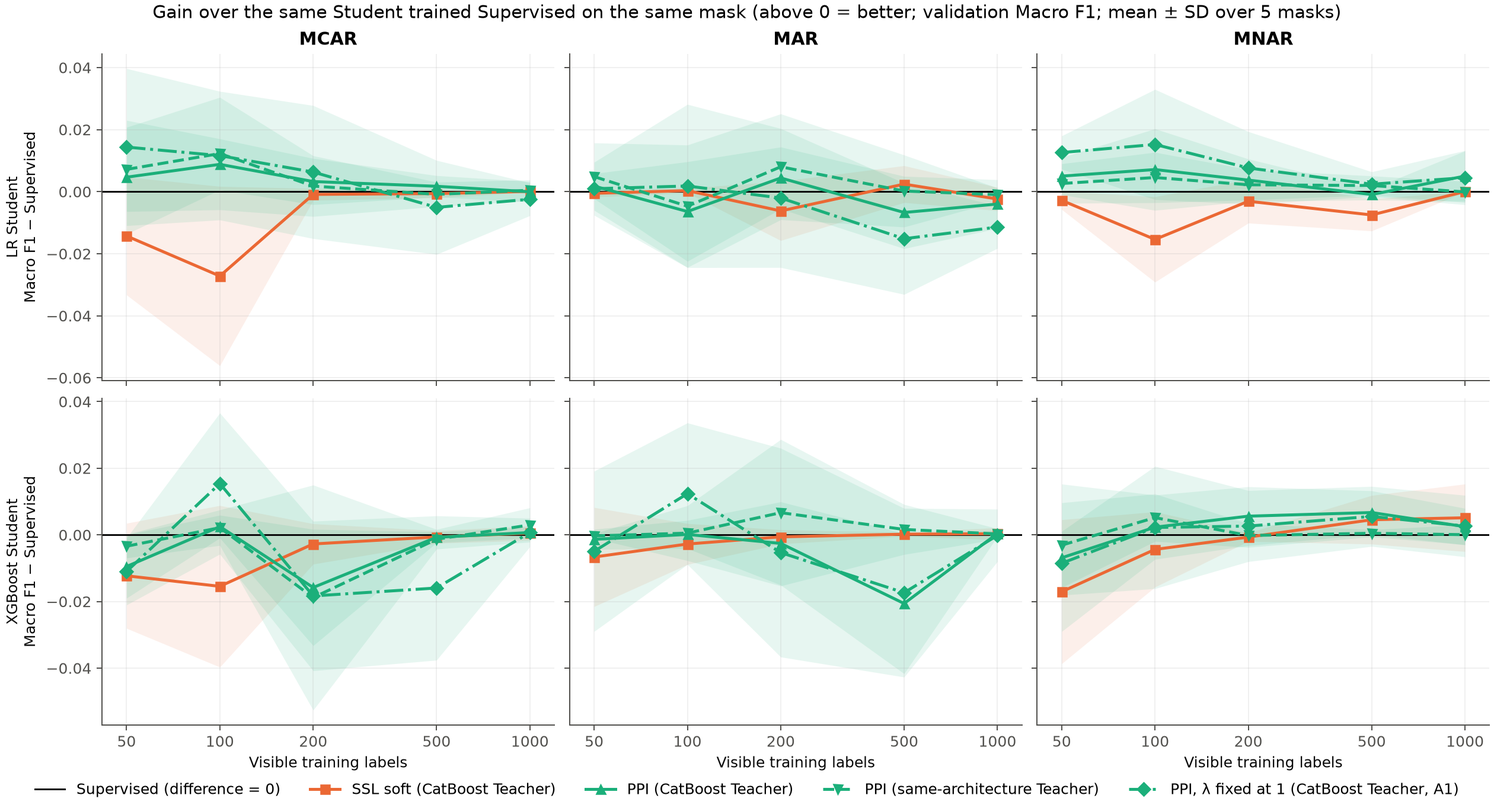
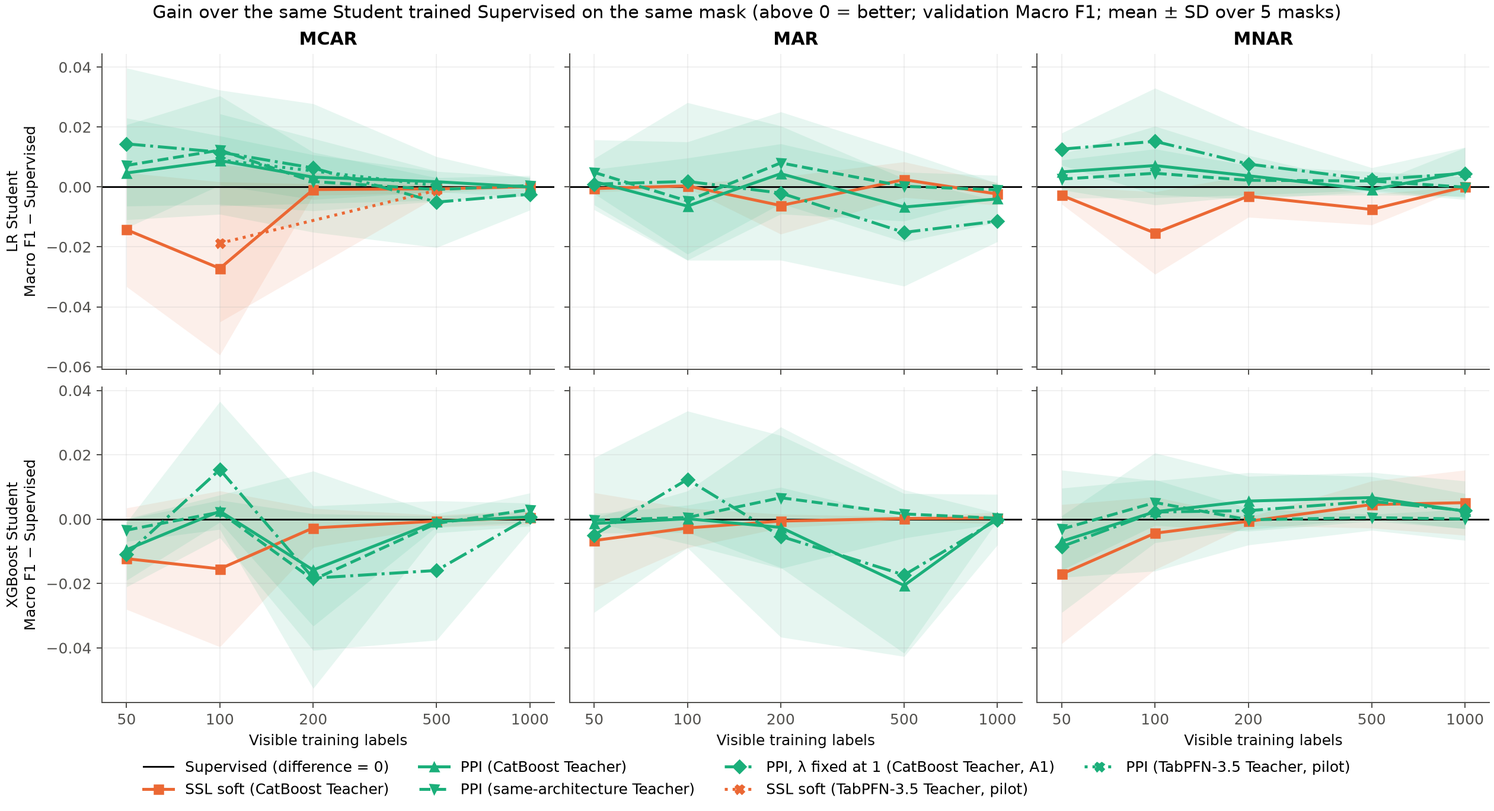
add TabPFN-3.5 pretrained teacher

diff --git a/src/core/figures.py b/src/core/figures.py
@@ -153,9 +153,10 @@ def teacher_quality(main, audits, study_audits, extra):
             band(ax, by_case(refit, mechanism), 'CatBoost Teacher refit on all visible labels', TEACHER_GRAY, 'D', '--')
             band(ax, by_case(same, mechanism), 'Same-architecture Teacher (cross-fit)', VIOLET, 'v', '-.')
             if student == 'LR' and mechanism in TABPFN_GRID['mechanisms'] and not tabpfn.empty:
-                band(ax, by_case(tabpfn, mechanism), 'TabPFN-3.5 Teacher (pretrained; cross-fit)', TEACHER_GRAY, 'X', '-')
+                # Darker gray = the pretrained Teacher (pilot: MCAR, 100 and 500 labels only).
+                band(ax, by_case(tabpfn, mechanism), 'TabPFN-3.5 Teacher (pretrained; cross-fit)', MUTED, 'X', '-')
                 band(ax, by_case(tabpfn, mechanism, 'alone'), 'TabPFN-3.5 alone (all visible labels as context)',
-                     TEACHER_GRAY, 'P', (0, (1, 1)))
+                     MUTED, 'P', ':')
     finish(fig, axes, 'Teacher quality: each Teacher vs the Student trained Supervised '
            '(validation Macro F1; mean ± SD over 5 masks)', 'teacher_quality.png')
 

diff --git a/README.md b/README.md
@@ -1,231 +1,142 @@
 # Evaluating Prediction-Powered Semi-Supervised Learning under Label Scarcity and Non-Random Label Missingness
 
-CS 680 project. It asks whether unlabeled training data improve four-class `Aircraft_Damage_Type` classification when only **50, 100, 200, 500 or 1,000 training labels** are visible. It compares Supervised learning, soft pseudo-label SSL and **PPI-inspired rectified training** under MCAR, MAR and MNAR label missingness. This is a machine-learning classification study, not statistical inference.
+CS 680 project. Does unlabeled data help four-class `Aircraft_Damage_Type` classification when only **50–1,000 training labels** are visible? It compares **Supervised**, **soft pseudo-label SSL** and **PPI-inspired rectified training** under MCAR, MAR and MNAR label missingness.
 
-## Run order
+## Run
 
-Use Python 3.13 (`python3.13 -m venv .venv && .venv/bin/python -m pip install -r requirements.txt`), then run from the project directory:
+Python 3.13: `python3.13 -m venv .venv && .venv/bin/python -m pip install -r requirements.txt`, then:
 
 ```bash
-.venv/bin/python src/01_run_main_study.py      # builds the fixed split if missing; main study: 75 cases × LR and XGBoost Students
-.venv/bin/python src/02_run_ablations.py       # A1 Teacher replay / Teacher-only / fixed λ=1, A2 rounds, A3 capacity
-.venv/bin/python src/03_run_teacher_study.py   # same-architecture Teachers, label-free preprocessing, TabPFN-3.5 Teacher pilot
-.venv/bin/python src/04_run_improvements.py    # exploratory improved pipeline (improved_v2), validation only
-.venv/bin/python src/05_run_synthetic_checks.py   # synthetic positive control + PP-SSL anchor (no real data)
-.venv/bin/python src/06_make_figures.py        # all figures and tables + key numbers printed to the console
-.venv/bin/python src/07_final_test.py          # one-shot Test evaluation, run LAST; locked until the protocol is frozen
-.venv/bin/python -m unittest discover -s tests -v
+.venv/bin/python src/01_run_main_study.py         # split (if missing) + main study: 75 cases × LR and XGBoost Students
+.venv/bin/python src/02_run_ablations.py          # A1 fixed λ=1 / Teacher replay, A2 XGBoost rounds, A3 XGBoost capacity
+.venv/bin/python src/03_run_teacher_study.py      # same-architecture Teachers, label-free preprocessing, TabPFN-3.5 Teacher pilot
+.venv/bin/python src/04_run_improvements.py       # exploratory improved_v2 pipeline
+.venv/bin/python src/05_run_synthetic_checks.py   # synthetic positive control + PP-SSL replication
+.venv/bin/python src/06_make_figures.py           # all figures and tables (reads the databases only)
+.venv/bin/python src/07_final_test.py             # one-shot Test evaluation, run last; locked as a draft
+.venv/bin/python -m unittest discover -s tests
 ```
 
-Steps 01–05 resume from (or rebuild) their own databases and do nothing if already complete. Step 06 only reads the databases and writes the figures and the LR main-line tables (no retraining). Step 07 refuses to recompute once done. Shared code lives in `src/core/` and is imported by the numbered scripts; it is never run directly. Total compute is about 1.5 CPU-hours, plus about 1 hour on an Apple GPU (MPS) for the TabPFN pilot.
+Each study resumes from its own database and is skipped if already complete. Later studies open earlier databases read-only. The TabPFN pilot needs `tabpfn` and a one-time license login; it takes about 1 hour on an Apple GPU.
 
-## Data and evaluation
+## Protocol
 
-- **Data.** `data/Aircraft_Incident_Dataset_Kaggle.csv` (cp1252). Seven features. The split is fixed (22,586 train / 4,840 validation / 4,841 test, with one representative per exact-duplicate record), stored in `results/split_manifest.csv`.
-- **Masks.** Applied to the training set only, with exactly the requested number of visible labels, nested across budgets, seeds 42–46.
+- **Data.** 7 features, with a fixed split: 22,586 train / 4,840 validation / 4,841 test (`results/split_manifest.csv`).
+- **Masks** (training set only; exact label counts; seeds 42–46):
   - MCAR is uniform.
-  - MAR samples fewer recent records (`Incident_Year ≥ 2023`), with exact known inclusion probabilities. It is used with **oracle IPW**.
-  - MNAR samples fewer `destroyed` outcomes. Only the simulator reads these outcomes; it is an **uncorrected stress test**.
-- **Information rule.** Hidden training labels never enter training, preprocessing, weighting, CV or selection. SSL weight and PPI λ are chosen by stratified CV on visible labels, with the Teacher nested inside the CV.
-- **Validation** (fully labeled) is used only for reporting. Because the protocol was revised after looking at it, treat it as a **development set**.
-- **Test has never been evaluated.** Evaluate it once, after the method is frozen.
+  - MAR under-samples records from 2023 on, with known probabilities, and uses IPW.
+  - MNAR under-samples `destroyed` and is not corrected (a stress test).
+- **Information rule.** Hidden labels never enter training, preprocessing, CV or selection. The SSL weight and PPI λ are chosen by stratified training CV on the visible labels, with the Teacher nested inside the CV.
+- **Validation** is a **development set**: the protocol was revised after seeing it. **Test has never been evaluated.**
+- **Students.** LR (C = 1) and XGBoost (100 rounds, depth 3). Within a Student, only the training objective changes.
+- **Teacher.** CatBoost, cross-fitted, so labeled rows get out-of-fold predictions.
+- **Risks** (a, b = IPW weights under MAR, 1 otherwise):
 
-## Methods
+```text
+Supervised: mean_L[a·CE(Y)]
+SSL soft:   (1−w)·mean_L[a·CE(Y)] + w·mean_U,conf≥0.8[b·CE(qU)]
+PPI:        mean_L[a·(CE(Y) − λ·CE(qL))] + λ·mean_U[b·CE(qU)],   λ ∈ {0, .25, .5, .75, 1}
+```
 
-- **Students.** LR (C=1, analytic gradient) and XGBoost (100 rounds, depth 3, η 0.05, L2 5, max_delta_step 1, custom objective). Within a Student, only the training objective differs between methods.
-- **Teacher.** CatBoost (500 iterations, depth 6), cross-fitted. Labeled rows get out-of-fold predictions. Unlabeled targets average the same fold Teachers, which keeps the labeled and unlabeled terms consistent because cross-entropy is linear in the target.
-- **Risks** (a, b: self-normalized IPW weights under MAR, 1 otherwise):
+**Objective shape.** The PPI objective is convex for LR, but unbounded below for boosted trees. XGBoost results are therefore read as an optimization/capacity sensitivity analysis (A2/A3).
 
-  ```text
-  Supervised: mean_L[a·CE(Y)]
-  SSL soft:   (1−w)·mean_L[a·CE(Y)] + w·mean_accepted_U[b·CE(qU)]      (confidence ≥ 0.8)
-  PPI:        mean_L[a·(CE(Y) − λ·CE(qL))] + λ·mean_U[b·CE(qU)],  λ ∈ {0, .25, .5, .75, 1}
-  ```
-
-- **Why the optimization behaves differently by Student.** Per row, the loss is `−t·z + m·logsumexp(z)` with row mass m ≥ 0 for λ ≤ 1. So the rectified objective is **convex for LR** (bounded by L2). However, each labeled row has slope `−λ(1−q_y) < 0` along its true-class margin, so the **empirical risk is unbounded below for trees**. XGBoost PPI fits are therefore set by the fixed boosting budget; ablation A2 confirms this.
-- **PPI-inspired, not PPI++.** λ is chosen for predictive Macro F1, so no coverage or variance guarantee is inherited.
-
-## Studies and outputs (`results/`)
+## Outputs (`results/`)
 
 | File | Content |
 |---|---|
-| `experiments.sqlite` | Main study: every metric, per-class F1, CV candidate score, Teacher score and fallback reason |
-| `ablations.sqlite` | A1: Teacher replay, Teacher-only refit, fixed λ=1 (75 cases). A2: XGBoost 100 vs 300 rounds (20 cases). A3: larger XGBoost Student (Fully labeled + 20 cases) |
-| `improved.sqlite` | Exploratory improved_v2: Ensemble Teacher, 5-fold, λ by CV and by a gradient-variance heuristic, Macro-F1 threshold rule, XGBoost leaf-refit; 225 cases (15 seeds) |
-| `teacher_study.sqlite` | Same-architecture Teachers (LR→LR, XGB→XGB) and label-free preprocessing (fit on labeled + unlabeled features), 6 variants × 75 cases |
-| `tabpfn_teacher.sqlite`, `tabpfn_teacher_summary.csv` | Exploratory pilot: pretrained TabPFN-3.5 Teacher → LR (MCAR; 100 and 500 labels; 5 masks each), paired with the CatBoost Teacher on the same masks |
-| `learning_curves.png` | Main study: validation Macro F1 for the LR (top) and XGBoost (bottom) Students, with the CatBoost Teacher and Fully labeled references (Accuracy is in the databases) |
-| `teacher_quality.png` | Each Teacher (CatBoost cross-fit, CatBoost refit, same-architecture; TabPFN-3.5 cross-fit and alone in the LR/MCAR panel) vs the Supervised Student |
-| `ppi_gains.png` | Main result: gain over Supervised on the same mask for SSL soft and PPI (CatBoost or same-architecture Teacher; TabPFN-3.5 pilot dotted in the LR/MCAR panel; PPI with λ fixed at 1 (A1) dash-dot) |
-| `improved_gains.png` | Exploratory improved_v2: gain over Supervised for SSL soft, PPI with CV λ and with the λ heuristic (argmax; threshold-rule results are printed by step 06) |
-| `lr_paired_uncertainty.csv` | LR main line: PPI−SSL and PPI−Supervised with SE and a stratified paired bootstrap over masks, overall and per class (λ sources and harm rates are printed by step 06) |
-| `lr_ablation_questions.csv` | Existing ablations re-read as LR-mainline questions (Teacher, λ, preprocessing, per-mask Teacher choice) |
-| `positive_control.sqlite`, `positive_control.png`, `positive_control_checks.csv` | Synthetic positive control (known posterior; controlled Teacher; MCAR/MAR/MNAR) and the verdict on each pre-declared expectation |
-| `ppssl_replication.sqlite`, `ppssl_replication.png`, `ppssl_replication_checks.csv` | PP-SSL anchor: two-group synthetic regression, online vs offline λ |
-| `xgboost_sensitivity.png` | XGBoost on the pre-declared subset: PPI at 100 vs 300 rounds (top), Supervised capacity (bottom) |
+| `experiments.sqlite`, `learning_curves.png` | Main study (Macro F1 vs labels; LR top, XGBoost bottom) |
+| `teacher_study.sqlite`, `teacher_quality.png` | Teachers (CatBoost, same-architecture, TabPFN) vs the Supervised Student |
+| `ppi_gains.png` | **Main result**: SSL / PPI gain over Supervised on the same mask (incl. λ fixed at 1 and the TabPFN Teacher) |
+| `ablations.sqlite`, `xgboost_sensitivity.png` | A1–A3 |
+| `lr_paired_uncertainty.csv`, `lr_ablation_questions.csv` | LR paired differences with bootstrap intervals (overall and per class); ablations as questions |
+| `improved.sqlite`, `improved_gains.png` | Exploratory improved_v2 |
+| `positive_control.*`, `ppssl_replication.*` | Synthetic checks (database, figure, and verdicts on the pre-declared checks) |
+| `tabpfn_teacher.sqlite`, `tabpfn_teacher_summary.csv` | TabPFN-3.5 Teacher pilot |
 
-All figures share one layout: a 2 × 3 grid with columns MCAR / MAR / MNAR, visible labels on the x-axis, lines for the mean over 5 masks with ±1 SD bands, and the legend at the bottom. Colors keep one meaning throughout: Supervised blue, SSL soft orange, PPI aqua, Teacher gray. Difference plots draw Supervised as the 0 line.
+All figures are 2×3 grids: columns MCAR / MAR / MNAR, mean ± SD over masks. Colors: Supervised blue, SSL orange, PPI aqua, Teacher gray.
 
-Each ablation and the Teacher study first reproduce the stored main-study fits **bit-for-bit** before adding anything, and write only to their own databases. Later studies open the main database read-only. CatBoost→CatBoost is not run: a faithful signed objective needs CatBoost's per-row Python callback (hours per case), and CatBoost would compute categorical target statistics from the signed targets.
+## Main result (LR Student, CatBoost Teacher, 75 masks, development set)
 
-`archive/source_before_cleanup.zip` holds the exact source that produced `experiments.sqlite`. Full replays with the current code reproduce stored cases exactly. `eda.ipynb` draws the proposal Figures 1–3 (saved to `proposal/`).
-
-## Study roles
-
-- **Main experiment (report's primary evidence):** the original pipeline, with the CatBoost Teacher, strict cross-fitting and λ selected by training CV, on the **LR Student** (`experiments.sqlite`). Its paired comparisons and the Teacher, λ and capacity ablations (`ablations.sqlite`, `teacher_study.sqlite`) are the core results.
-- **XGBoost:** reported as an ablation of optimization stability and capacity. The signed rectified loss is unbounded below for boosted trees (A2), and the small main configuration limits capacity (A3).
-- **Exploratory extension (`improved.sqlite`, protocol `improved_v2`):** changes several things at once (Teacher, folds, decision rule, Student representation), so its results are descriptive, not attributable to any single component.
-- **Test:** `07_final_test.py` stays locked (`FROZEN['status'] = 'draft'`) until the main experiment is settled. Its earlier draft chose the LR Teacher by OOF scores pooled over all 75 masks, which is a protocol-level choice that a single dataset could not make; this must be resolved before freezing. A replacement rule that each case can execute within its own label budget is proposed below (not executed).
-
-## Version protection
-
-Every runner compares the stored fingerprint (config, data and split hashes, package versions, source hashes) with the current one before reusing results:
-- **Partially finished study:** refuses to resume under different source, config or data.
-- **Finished study:** skipped with a warning that lists exactly what changed.
-
-The stored main, ablation and Teacher-study results predate the later refactors, so they show such warnings. They remain valid because the current code **reproduces them bit-for-bit**:
-- full replays of MCAR/200/42, MAR/50/42, MNAR/500/44, MAR/1000/46, MNAR/100/45 and MCAR/500/43;
-- the A1 replay of all 75 Teachers and 150 Supervised fits.
-
-## Exploratory improved pipeline (protocol `improved_v2`, validation only)
-
-Declared in `src/core/improved.py` (`PROTOCOL`, stored in `improved.sqlite`):
-
-1. **Ensemble Teacher.** The mean of cross-fitted CatBoost and LR Teachers on the same folds. There is no label-dependent calibration or selection, so every labeled prediction strictly excludes its own label. OOF log losses are recorded as diagnostics only.
-2. **5-fold** Teacher cross-fitting and training CV; **15 seeds** (42–56), 225 cases.
-3. **λ.** Chosen by training CV, plus a **PPI++-inspired λ heuristic**: tr Cov(g_Y, g_f) / ((1 + n/N)·tr Var(g_f)), using **whole-Student out-of-fold** residuals (the tree structure is re-learned per fold for leaf-refit). It omits the H⁻¹ preconditioning and the exact IPW variance of PPI++ power tuning, so it is not PPI++ power tuning.
-4. **Macro-F1 decision rule.** A per-class logit bias fitted on out-of-fold Student probabilities, applied to every method. Argmax results are stored too.
-5. **XGBoost leaf-refit = tree features + LR head.** A supervised XGBoost (20 rounds) learns the structure on labeled rows; every method refits leaf weights with the same convex LR objective (C = 0.1). Rounds and C were fixed for optimizer conditioning before any accuracy was seen. This is a separate Student, not the boosted XGBoost Student.
-
-**History.**
-- **v1:** used in-sample residuals, which made the λ heuristic 0; aborted.
-- **v1.1:** aborted after review, because its calibrated and selected Teacher and its leaf-refit residuals were not strictly out-of-fold.
-- **Disclosure:** interim validation numbers for MCAR at 50–100 labels from those runs had been viewed. Both runs were discarded.
-
-The figure `improved_gains.png` is drawn only when all 225 cases are complete.
-
-
-## LR main line: paired uncertainty and ablations (`06_make_figures.py`; analysis only)
-
-All 75 masks share one train/validation split and one validation set. Seeds vary only the mask and the CV folds. The intervals below therefore describe **mask-to-mask variability on the development set**; they are descriptive, not a generalization guarantee. The bootstrap resamples masks within each (mechanism, budget) cell. Validation Macro F1, CatBoost Teacher → LR:
-
-| Contrast (75 masks) | Mean ± SE | 95% paired bootstrap | better / worse / equal |
-|---|---|---|---|
-| PPI − Supervised (**improvement**) | +0.0018 ± 0.0011 | [−0.0000, +0.0038] | 33 / 19 / 23 |
-| PPI − SSL soft (**robustness** relative to SSL) | +0.0070 ± 0.0020 | [+0.0043, +0.0101] | 43 / 15 / 17 |
-| SSL soft − Supervised (SSL harm) | −0.0052 ± 0.0014 | [−0.0074, −0.0033] | 7 / 32 / 36 |
-
-- **Robustness and improvement are separate claims.**
-  - *Robustness:* SSL is worse than Supervised on 32 masks (mean −0.0127). On those same masks PPI averages +0.0049, and it is worse than Supervised on only 8 of them. PPI therefore avoids most of SSL's harm.
-  - *Improvement:* PPI's improvement over Supervised is small. Its interval touches 0. It is positive at 50–200 labels (+0.003 to +0.004) and under MCAR and MNAR, and negative under MAR (−0.0022).
-- **λ = 0 occurs on 23 of 75 masks.**
-  - 17 are chosen by CV, because no λ > 0 beat Supervised.
-  - 6 are **forced**: a class had fewer than 2 visible labels, so there was no CV. Five of these are at 50 labels.
-  - None comes from the feasibility back-off (printed by step 06).
-- **Per-class F1** (`lr_paired_uncertainty.csv`, per-class rows):
-  - PPI's gain over Supervised is concentrated in the rarest class, *minor*: +0.022 at 50–200 labels, interval [+0.013, +0.032]. PPI loses a little on *substantial* (−0.005) and *damaged beyond repair* (−0.002).
-  - SSL's harm falls on the two rare classes: *destroyed* −0.017 and *minor* −0.008. The 0.8 confidence filter keeps mostly majority-class pseudo-labels.
-- **Ablations as LR-mainline questions.** Each row is PPI − its own Supervised over 75 masks (`lr_ablation_questions.csv`; the LR row of `ppi_gains.png` draws Q0–Q2):
-
-| Question | PPI − Supervised [95% bootstrap] | Teacher Macro F1 (Teacher − Supervised) |
+| Contrast | Mean ± SE | 95% paired bootstrap |
 |---|---|---|
-| Q0 main: CatBoost Teacher, CV λ, labeled-only preprocessing | +0.0018 [−0.0000, +0.0038] | 0.477 (−0.038) |
-| Q1 LR Teacher instead of CatBoost | +0.0026 [+0.0005, +0.0048] | 0.499 (−0.016) |
-| Q2 λ fixed at 1 instead of CV (A1) | +0.0028 [−0.0004, +0.0062] | 0.477 (−0.038) |
-| Q3 labeled+unlabeled preprocessing (CatBoost / LR Teacher) | +0.0017 / +0.0018 | unchanged |
-| Q3 effect of that preprocessing on Supervised itself | −0.0003 [−0.0006, +0.0001] | — |
-| Q4 Teacher chosen per mask by its own training CV (CatBoost vs LR) | +0.0016 [−0.0004, +0.0036] | — |
+| PPI − Supervised (**improvement**) | +0.0018 ± 0.0011 | [−0.0000, +0.0038] |
+| PPI − SSL soft (**robustness**) | +0.0070 ± 0.0020 | [+0.0043, +0.0101] |
+| SSL soft − Supervised | −0.0052 ± 0.0014 | [−0.0074, −0.0033] |
 
-  - **Q1** changes two things at once: the Teacher's architecture and its quality. The LR Teacher is better than CatBoost at these budgets, though still worse than the Supervised Student. Q1 therefore cannot separate "architecture match" from "a better Teacher".
-  - **Q2:** fixed λ = 1 has a larger mean but a larger spread. It wins on 41 masks and loses on 34; CV λ gets 23 exact ties because it allows λ = 0. Under MAR at 500–1,000 labels, fixed λ = 1 is clearly worse.
-  - **XGBoost** stays in the capacity/optimization sensitivity analyses (A2/A3) and is not part of these questions.
+- **PPI avoids SSL's harm but barely beats Supervised.**
+  - SSL is worse than Supervised on 32 masks; on those masks PPI averages +0.0049.
+  - PPI's gain sits mostly in the rarest class, *minor* (+0.022 at ≤200 labels). It is negative under MAR (−0.002).
+- **λ = 0 on 23 masks.** 17 were chosen by CV; 6 were forced because a class had fewer than 2 labels.
+- **The masks share one split,** so the intervals are descriptive.
+- **Ablations** (PPI − Supervised):
+  - LR Teacher: +0.0026. The Teacher's quality also changes, so this is not a clean test of the Teacher's architecture.
+  - λ fixed at 1: +0.0028, with a larger spread; clearly worse under MAR at 500–1,000 labels.
+  - Label-free preprocessing: no effect.
+  - Teacher chosen per mask by CV: +0.0016.
+- **Both learned Teachers are weaker than the Student they teach**: CatBoost 0.477 and LR 0.499 vs Supervised 0.514.
 
-## Synthetic positive control (`05_run_synthetic_checks.py`, protocol `positive_control_v1`)
+## Synthetic checks (pre-declared before running)
 
-**Question.** Is the null-to-small real-data gain an implementation or objective problem, or a consequence of unfavorable real-data conditions?
+- **Positive control.** A known posterior, with difficulty matched to the real data. 9/11 expectations were confirmed.
+  - An oracle Teacher gives PPI +0.045 to +0.070 at 50 labels, and the gain shrinks with more labels. **The implementation and objective work.**
+  - A Teacher that is weak but unbiased (σ = 3; Macro F1 0.42, below the Student) still lets SSL gain a lot, while PPI stays conservative. So what matters is whether the Teacher's errors are *systematic*, not its per-row accuracy. Real-data SSL harm points to systematic errors.
+  - Not confirmed:
+    - E8: CV λ costs −0.005 with an uninformative Teacher, because CV is noisy with few labels.
+    - E10: no clear PPI > SSL inside the subgroup where the Teacher is biased.
+- **PP-SSL replication** (Shoham et al., NeurIPS 2025; their two-group regression). 4/6 claims reproduced: SSL collapses in the biased group, while PP-SSL stays ≥ Only Labeled and its online λ falls as the bias grows.
+  - Not reproduced: closeness to the best fixed λ, and beating PPI++. Without the paper's early stopping, the online λ collapses to 0, because the full-batch labeled gradient goes to 0.
+  - This project's offline CV λ tracks the best fixed λ better.
+  - **Boundary:** this project adapts, rather than replicates, PP-SSL. It uses classification, offline CV λ chosen for Macro F1, a learned cross-fitted Teacher, IPW, and MNAR.
 
-**Design** (`src/core/positive_control.py`):
-- **Data.** Four classes with a known multinomial-logistic posterior p\*(y | x). There are 20 Gaussian features plus a subgroup indicator (30% of rows), and class priors 49/16/8/27% (as in the real data).
-- **Calibration.** The signal strength was set **only** by matching the Bayes and Supervised curves to the real data, before any SSL/PPI fit: Bayes Macro F1 0.65 vs fully labeled LR 0.64; Supervised 0.40 → 0.61 vs 0.44 → 0.58.
-- **Missingness.** MCAR, MAR and MNAR reuse `masking.make_mask` unchanged. MAR under-observes x₀ > 0.5 with known propensities and IPW. MNAR under-observes class 1 and is not corrected.
-- **Replications.** 10,000 training rows and 5,000 validation rows. 10 seeds, each an **independent replication** with a new pool, validation set, Teacher noise and mask. Unlike on the real data, the intervals here therefore are over replications.
-- **Teachers.** A fixed, label-free function of x: oracle (q = p\*); p\* with logit noise σ = 1 and σ = 3; uninformative (pure noise); and subgroup-biased (oracle in group A, classes rotated in group B). Because q never sees a label, no cross-fitting is needed.
-- **Student and methods.** The LR Student (`ssl_core.fit_student`, C = 1). Supervised; SSL soft; PPI with CV λ (the same rules as `selection.select_settings`); and PPI with λ = 1.
-- **Pre-declaration.** The 11 expectations (which settings should and should not benefit) and their decision rules are stored in the database before the first result.
+## TabPFN-3.5 Teacher pilot (exploratory; MCAR; 5 masks per budget)
 
-**Results** (`positive_control_checks.csv`; `positive_control.png` draws the oracle and σ=3 Teachers; MCAR + MAR; Macro F1 − Supervised):
+**Question.** Is the small PPI gain caused by a Teacher that learns from the same few labels?
 
-| | Expectation | Estimate [95% bootstrap over seeds] | Verdict |
-|---|---|---|---|
-| E1 | oracle, PPI CV λ, gain at 50–200 | +0.033 [+0.030, +0.036] | confirmed |
-| E2 | oracle, PPI λ=1, gain at 50–200 | +0.030 [+0.026, +0.035] | confirmed |
-| E3 | oracle, gain shrinks 50 → 1,000 | +0.057 [+0.048, +0.064] | confirmed |
-| E4 | noise σ=1, gain at 50–200 | +0.021 [+0.016, +0.027] | confirmed |
-| E5/E6 | noise σ=3 (Teacher 0.42 < Student): no material gain, no material harm | +0.002 [+0.000, +0.005] | confirmed |
-| E7 | uninformative, no gain | −0.005 [−0.009, −0.002] | confirmed |
-| E8 | uninformative, no material harm (> −0.005) | −0.005 [−0.009, −0.002] | **not confirmed** |
-| E9 | uninformative, λ fixed at 1 harms | −0.072 [−0.078, −0.064] | confirmed |
-| E10 | subgroup-biased, PPI > SSL inside subgroup B | +0.006 [−0.001, +0.012] | **not confirmed** |
-| E11 | subgroup-biased, no material harm overall | +0.001 [−0.003, +0.004] | confirmed |
+**Setup.**
+- The Teacher is TabPFN-3.5: pretrained only on synthetic data, research license, run on an Apple GPU.
+- It uses the visible labels as its in-context examples, and is cross-fitted and nested in CV exactly like CatBoost.
+- Everything else matches the main study. The Supervised fits reproduce the main study exactly.
+
+| Validation Macro F1 | 100 labels | 500 labels |
+|---|---|---|
+| Supervised LR | 0.494 | 0.585 |
+| CatBoost Teacher (cross-fit) | 0.442 | 0.536 |
+| TabPFN Teacher (cross-fit) | 0.465 | 0.591 |
+| **TabPFN alone** (all visible labels) | 0.482 | **0.603** |
+| PPI − Supervised: TabPFN / CatBoost Teacher | +0.009 / +0.009 | +0.000 / +0.002 |
+| SSL − Supervised: TabPFN / CatBoost Teacher | −0.019 / −0.027 | −0.001 / −0.001 |
 
 **Reading.**
-1. **The objective and implementation can deliver gains.** With an informative, unbiased Teacher, the same `fit_student` objective, CV rule and masks give PPI +0.045 (MAR) to +0.070 (MCAR) Macro F1 at 50 labels, and the gain shrinks with more labels as theory predicts. The real-data null is therefore not explained by a broken implementation.
-2. **What matters is how the Teacher is wrong, not its per-row accuracy.**
-   - The σ = 3 Teacher has Macro F1 0.42, below the Supervised Student, yet SSL soft gains +0.12 to +0.13 at 50 labels and +0.01 at 1,000. Independent logit noise averages out over 10,000 unlabeled rows, so the Teacher is still an unbiased signal.
-   - PPI is more conservative. Its labeled rectifier term keeps O(1/n) variance, which is large when the Bayes error is about 35%. CV then often chooses a small λ.
-   - On the real data SSL *hurts*. That points to **systematic** Teacher error: the real Teacher is learned from the same few labels, and its errors fall on the rare classes. That is the regime where PPI's unbiasedness matters, and there PPI is robust relative to SSL but not much better than Supervised.
-3. **Selecting λ by training CV with few labels is noisy.** With an uninformative Teacher, CV picked λ > 0 in 70/150 cases and cost −0.005 (E8). Forcing λ = 1 cost −0.07 (E9), so CV still guards against most of the harm.
-4. **The subgroup-biased Teacher did not reproduce a clear PPI-over-SSL advantage inside the biased subgroup** (E10, not confirmed). The rotated pseudo-labels are confidently wrong, but the 0.8 confidence filter and CV keep SSL's weight low.
-5. **MNAR (declared descriptive).** An informative Teacher partly corrects the label-selection shift, so both SSL and PPI gain more than under MCAR.
+- TabPFN is a much better Teacher, but **the LR Student does not inherit it**: PPI gains no more than with CatBoost, and SSL still hurts (slightly less).
+- At 500 labels, TabPFN alone beats every LR Student. The bottleneck is the linear Student, not only the Teacher.
+- With 5 masks per budget, this is descriptive.
+- One smoke case (MCAR/100/42) was viewed before the run; it reproduced exactly.
 
-## PP-SSL anchor (`05_run_synthetic_checks.py`; Shoham et al., NeurIPS 2025, arXiv 2510.22586)
+## Exploratory improved_v2 (`improved.sqlite`, 225 cases)
 
-**What the paper does.**
-- Its prediction-powered gradient is g_n + λ(g̃_N,f − g_n,f). This is unbiased for every λ ∈ [0, 1], so λ changes only the variance.
-- λ is tuned **online** by 1-D AdaGrad on h_t(λ) = ‖g_t + λ d_t‖², clipped to [0, 1] (Algorithm 1). The variance-optimal λ\* is (1/(1+n/N))·σ²/(σ² + σ_e²).
-- Its core synthetic phenomenon (Sec. 4.1): with a Teacher that is an oracle in group A and biased by μ in group B, classic SSL becomes worse than Only Labeled in group B, while PP-SSL stays robust.
+Changes made together:
+- an Ensemble Teacher (CatBoost + LR);
+- 5 folds;
+- λ chosen by CV and by a gradient-variance heuristic (PPI++-inspired, not PPI++);
+- a Macro-F1 threshold rule;
+- an XGBoost leaf-refit Student.
 
-**Reproduction** (`src/core/ppssl_replication.py`; paper setup):
-- 9 Gaussian features plus a group indicator; n = 20, N = 1,000, 1,000 test rows; μ ∈ {0.1, 1, 3, 5, 7}; 100 runs.
-- Linear model, Adam lr 1e-3, 12,000 steps.
-- Six targets were declared before the run. Test MSE:
+**Results:** LR PPI (heuristic λ) − Supervised = +0.0049 at argmax, but the advantage disappears under the threshold rule, which itself lifts Supervised by +0.0085.
 
-| | Paper claim | Result | Verdict |
-|---|---|---|---|
-| R1 | Group B: Classic SSL worse than Only Labeled for μ ≥ 3 | +6.1 / +20.9 / +43.1 MSE | reproduced |
-| R2 | Group B: PP-SSL better than Classic SSL for μ ≥ 3 | −6.2 / −20.9 / −43.1 | reproduced |
-| R3 | PP-SSL no worse than Only Labeled at every μ | −0.105 … −0.027 (lower or equal at every μ) | reproduced |
-| R4 | Online λ falls as the bias grows | 0.026 → 0.003 | reproduced |
-| R5 | PP-SSL close to the best fixed λ (within 5%) | +0.15 to +0.93 MSE above it | **not reproduced** |
-| R6 | PP-SSL beats PPI++ with offline λ | +0.02 (no difference) | **not reproduced** |
+**Status:** descriptive only. Earlier versions v1 and v1.1 were aborted (not strictly out-of-fold), and their interim MCAR 50–100 numbers had been viewed.
 
-**Why R5 and R6 fail here.**
-- With n = 20 below the batch size, the labeled gradient g_t is the same full-batch gradient at every step. As w converges, g_t → 0, so the λ minimizing ‖g_t + λ d_t‖² goes to 0.
-- In a traced run, λ was about 0.3–0.4 during the first ~50 steps (the range of the paper's Table S9) and 0 by step 1,000. The paper stops early on 200 labeled validation rows; we deliberately do not, because that is 10× the labeled budget.
-- The PPI++ plug-in λ (0.007–0.019) is also near 0. Here the benefit of λ is mostly *finite-sample conditioning*: λ·X_Uᵀ X_U/N regularizes a 20-row, 11-parameter fit. Asymptotic variance-based tuning does not target that.
-- **This project's offline training-CV rule** (4-fold, λ ∈ {0, .25, .5, .75, 1}, judged by held-out error) does target it. It picks λ 0.56 → 0.21 as μ grows, close to the infeasible best fixed λ (0.6 → 0.1). Its total MSE is 1.80 vs PP-SSL 2.70 at μ = 0.1, but it is worse at μ = 7 (3.22 vs 3.07): CV on 20 labels is noisy.
+## Proposed Test protocol (not executed)
 
-**Replication vs adaptation boundary.**
-- *Replicated:* the unbiased PP gradient; Algorithm 1's λ update; the paper's data, Teacher, n, N and μ grid.
-- *Not replicated:* PyTorch; early stopping on extra labeled data; the AdaGrad-norm step for w; the real-data experiments. One smoke run (μ = 5, seed 0) was seen at lr 1e-2 / 3,000 steps before the optimizer was set to the paper's values.
-- *This project adapts rather than replicates PP-SSL.* Its risk is cross-entropy for 4-class classification. λ is chosen **offline** by stratified training CV for Macro F1, not online and not by minimizing variance. Its Teacher is learned and cross-fitted on the same few labels, not a fixed oracle. Under MAR it uses IPW, and under MNAR the labels are selection-biased, which the paper's i.i.d. assumption excludes.
-- So "PPI-inspired rectified training" here shares PP-SSL's unbiased objective, but none of its online-tuning guarantee.
+1. **Primary:** the proposal's design (CatBoost Teacher → LR, CV λ). It needs no Teacher selection, so each mask can run it within its own label budget.
+2. **Claims:** "improvement" only if the bootstrap interval of PPI − Supervised excludes 0; "robustness" only if PPI − SSL excludes 0. Both are reported regardless.
+3. **Secondary:** a per-mask Teacher choice (CatBoost vs LR) by that mask's own training CV. XGBoost is a sensitivity analysis only. improved_v2, the synthetic studies and TabPFN are not run on Test.
+4. **Freezing:** write these rules into `FROZEN` in `src/core/final_test.py` (`status = 'final'`, with the date), then run `07_final_test.py` once.
 
-## Proposed final Test protocol (proposal only; `07_final_test.py` stays locked as a draft)
+## Reproducibility
 
-**Development-set disclosure (kept).** Validation was used as a development set: the protocol was revised after viewing it, interim `improved_v1/v1.1` numbers were viewed, and the analyses above (paired uncertainty, ablations as questions, positive control, PP-SSL anchor) were done after the main results were known. Test has never been evaluated.
-
-**Proposed rules, to be frozen before any Test score exists:**
-1. **Primary method = the proposal's design.** LR Student; cross-fitted **CatBoost** Teacher; labeled-only preprocessing; SSL weight and PPI λ by 3-fold training CV on the visible labels (main-study grids); argmax decisions.
-   - This needs no Teacher selection, so every case can execute it within its own label budget. It matches the submitted proposal ("CatBoost is used as the Teacher model").
-   - Same 75 masks (seeds 42–46) and the same fitted models as on validation. `07_final_test.py` already verifies the Test refit reproduces the validation run's training-only quantities exactly.
-2. **Pre-declared primary contrasts (LR).** These are pooled over 75 masks, with mean ± SE and the stratified paired bootstrap 95% interval:
-   - (a) PPI − Supervised: **improvement** is claimed only if the interval excludes 0.
-   - (b) PPI − SSL soft: **robustness** is claimed only if the interval excludes 0.
-   - Both are reported whatever the outcome.
-3. **Secondary (not used for any claim).**
-   - The per-budget, per-mechanism and per-class tables, and λ sources split into CV-chosen vs forced.
-   - A **per-case Teacher-selection rule executable within the case's label budget**: for each mask, fit the cross-fitted CatBoost and LR Teachers on that mask's visible labels only. Keep the one whose selected PPI setting has the higher **training-CV** Macro F1 (`teacher_study.selected_cv_score`; ties and the no-CV small-class fallback keep CatBoost).
-   - This replaces the earlier draft rule (an LR Teacher chosen by OOF scores pooled over all 75 masks), which no single dataset could apply. On the development set the per-case rule gives +0.0016 [−0.0004, +0.0036], no better than the fixed CatBoost Teacher, so it stays secondary.
-4. **Sensitivity only.** CatBoost → XGBoost (capacity/optimization; A2/A3). `improved_v2`, the threshold rule and the synthetic studies are **not** evaluated on Test.
-5. **Freezing.** Write these rules into `FROZEN` in `src/core/final_test.py`, with `status = 'final'` and the date, and change `VARIANTS` to CatBoost→LR (primary), LR→LR (for the secondary rule) and CatBoost→XGBoost (sensitivity). Then run `07_final_test.py` once. That edit and the run are left to the author.
+- Each runner stores a fingerprint (config, data, split, package versions, source hashes):
+  - It refuses to resume a partial study under changed code.
+  - It warns when a finished study predates code changes.
+- Stored results were checked to reproduce **bit-for-bit** with the current code (selected full replays plus the A1 replay of all Teachers).
+- `archive/source_before_cleanup.zip` holds the source that produced `experiments.sqlite`.
+- `eda.ipynb` draws the proposal figures in `proposal/`.
